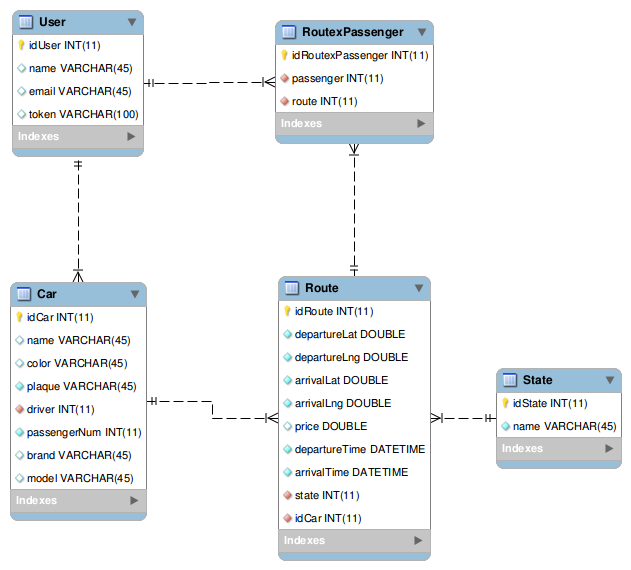
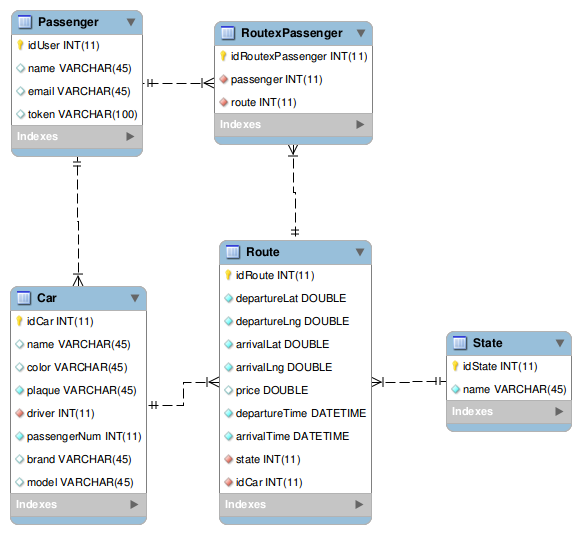
Add models class

Changed region(s): [[0.0, 0.4195, 0.9914, 0.9888], [0.3098, 0.03, 0.7126, 0.2996], [0.0, 0.0, 0.2788, 0.3296]]

diff --git a/app/src/main/java/Model/Route.java b/app/src/main/java/Model/Route.java
@@ -1,0 +1,31 @@
+package Model;
+
+import com.activeandroid.Model;
+import com.activeandroid.annotation.Column;
+import com.activeandroid.annotation.Table;
+
+@Table(name = "tbl_route")
+public class Route extends Model{
+
+    final static public String ROU_CN_DEPARTURE_LAT = "departureLat";
+    final static public String ROU_CN_DEPARTURE_LNG = "departureLng";
+    final static public String ROU_CN_ARRIVAL_LAT = "arrivalLat";
+    final static public String ROU_CN_ARRIVAL_LNG = "arrivalLng";
+    final static public String ROU_CN_PRICE = "price";
+    final static public String ROU_CN_DEPARTURE_TIME = "departureTime";
+    final static public String ROU_CN_ARRIVAL_TIME = "arrivalTime";
+    final static public String ROU_CN_STATE = "state";
+    final static public String ROU_CN_CAR = "car";
+
+    @Column(name = ROU_CN_DEPARTURE_LAT)
+    private double departureLat;
+
+    @Column(name = ROU_CN_DEPARTURE_LNG)
+    private double departureLng;
+
+    @Column(name = ROU_CN_ARRIVAL_LAT)
+    private double arrivalLat;
+
+    @Column(name = ROU_CN_ARRIVAL_LNG)
+    private double arrivalLng;
+}

diff --git a/app/src/main/java/Model/RoutexPassenger.java b/app/src/main/java/Model/RoutexPassenger.java
@@ -1,0 +1,39 @@
+package Model;
+
+import com.activeandroid.Model;
+import com.activeandroid.annotation.Column;
+import com.activeandroid.annotation.Table;
+
+@Table(name = "tbl_route_passenger")
+public class RoutexPassenger extends Model {
+
+    final static public String RP_CN_PASSENGER = "passenger";
+    final static public String RP_CN_ROUTE = "route";
+
+    @Column(name = RP_CN_PASSENGER)
+    private Passenger passenger;
+
+    @Column(name = RP_CN_ROUTE)
+    private Route route;
+
+    public RoutexPassenger(Passenger passenger, Route route) {
+        this.passenger = passenger;
+        this.route = route;
+    }
+
+    public Passenger getPassenger() {
+        return passenger;
+    }
+
+    public void setPassenger(Passenger passenger) {
+        this.passenger = passenger;
+    }
+
+    public Route getRoute() {
+        return route;
+    }
+
+    public void setRoute(Route route) {
+        this.route = route;
+    }
+}

diff --git a/app/src/main/java/Model/Passenger.java b/app/src/main/java/Model/Passenger.java
@@ -1,0 +1,4 @@
+package Model;
+
+public class Passenger {
+}

diff --git a/app/src/main/java/Model/State.java b/app/src/main/java/Model/State.java
@@ -1,0 +1,4 @@
+package Model;
+
+public class State {
+}

diff --git a/app/src/main/java/Model/Car.java b/app/src/main/java/Model/Car.java
@@ -1,0 +1,4 @@
+package Model;
+
+public class Car {
+}
